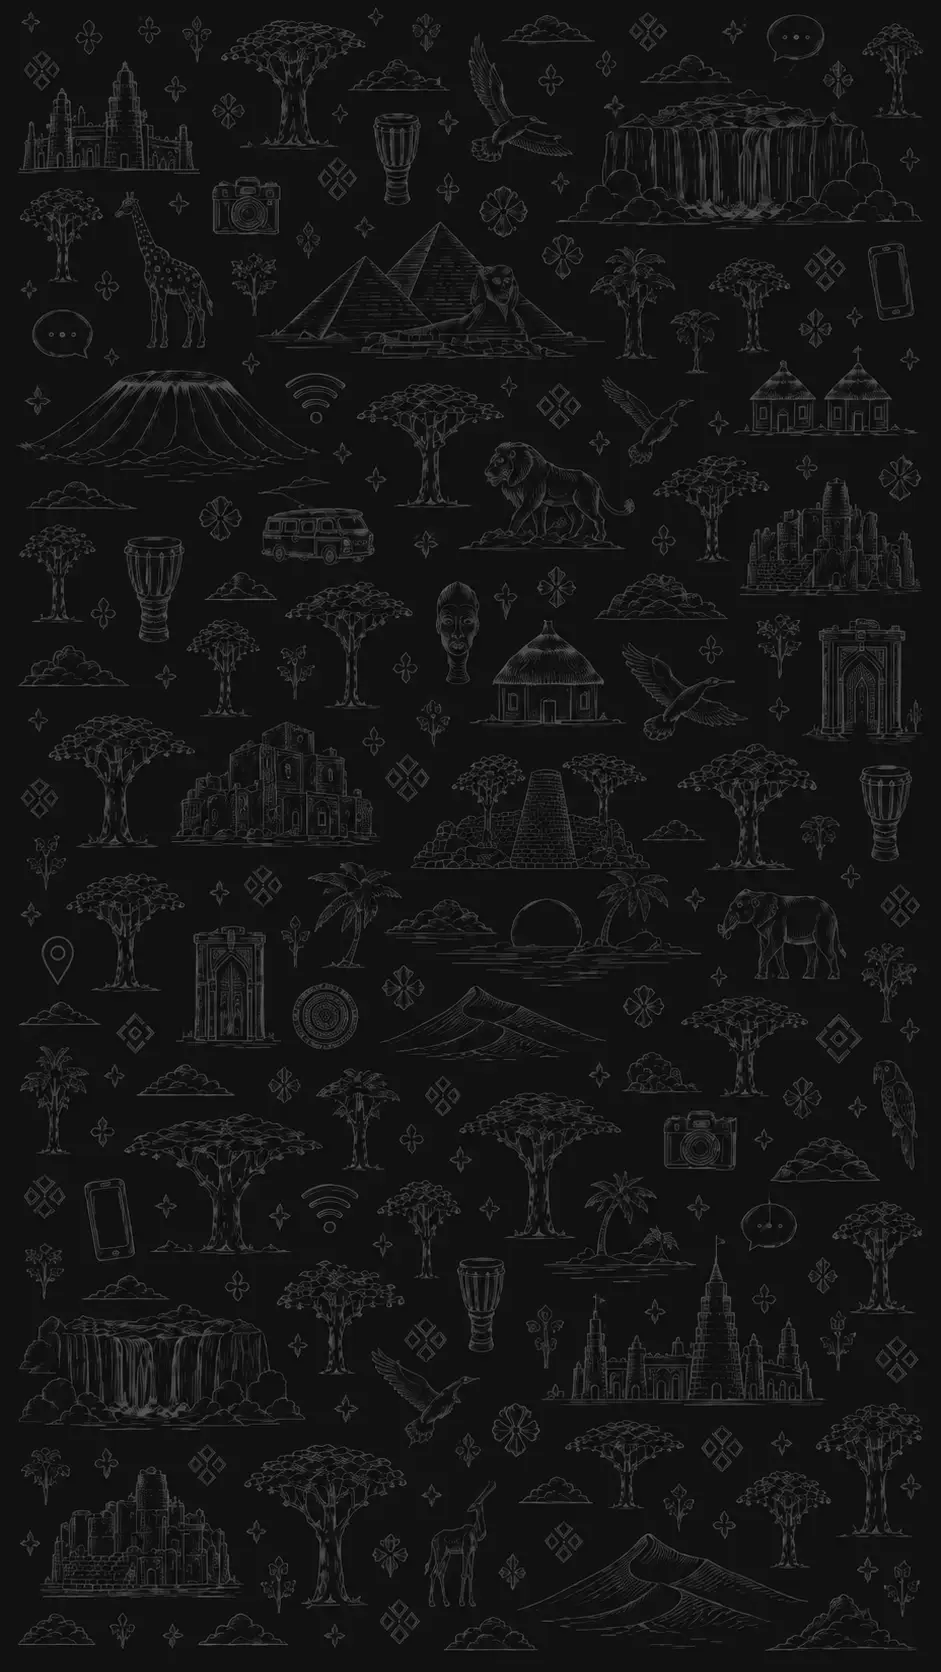
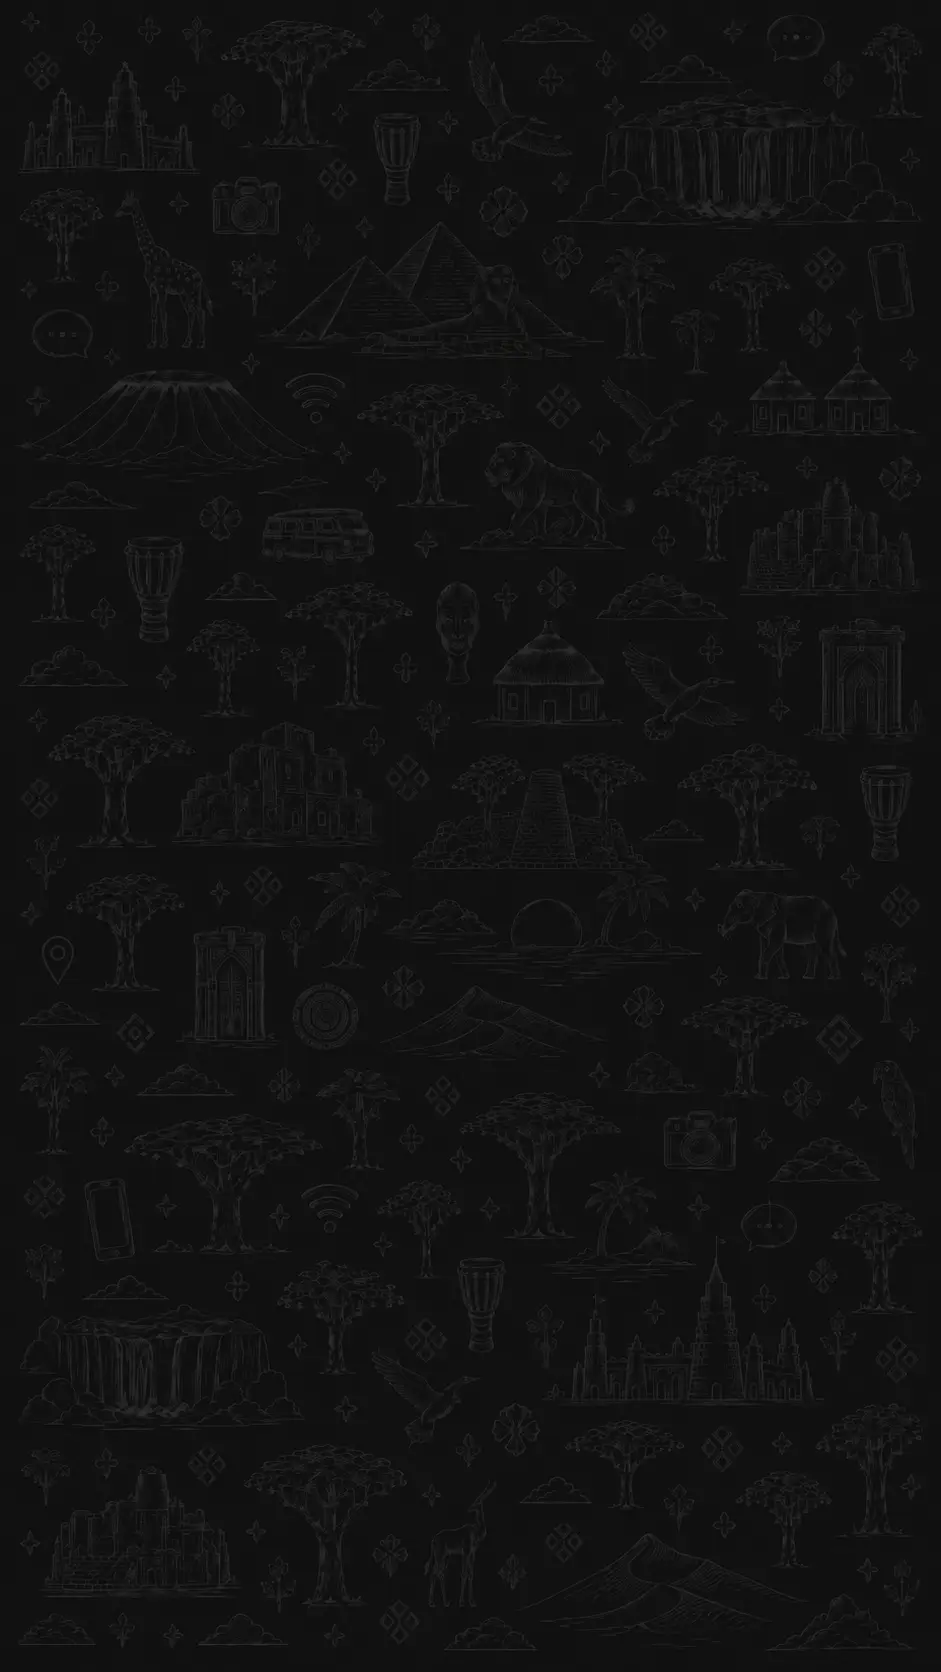
Update wallpapers and pin mobile chat search placeholder to #9aa1a6
New light/dark wallpaper art for both the portrait and web crops.

Also lands the pending placeholder guard: the mobile hierarchy block in
@media (max-width: 1023px) remaps the search label onto
--chat-text-secondary, and its :has() argument puts one more element in the
specificity chain than the #9aa1a6 guard, so phones rendered #b8b8b8 while
web rendered #9aa1a6. The extra element in the chain keeps the search
placeholder at #9aa1a6 across breakpoints in dark mode; light mode keeps its
deliberate #5F6861 cream-pill tone.

diff --git a/client/src/index.css b/client/src/index.css
@@ -3703,6 +3703,20 @@ body .savanna-app input[aria-label="Search conversations"]::placeholder,
   opacity: 1 !important;
 }
 
+/* The same control on phones. The mobile hierarchy block inside
+   `@media (max-width: 1023px)` remaps
+   `label:has(input[aria-label="Search chats or people"])` — which IS the mobile
+   search — onto `--chat-text-secondary`, and the `:has()` argument gives that
+   selector one more element than the guard above, so it wins on specificity
+   alone. Repeating `body` in the chain restores the margin and keeps the
+   placeholder at `#9aa1a6`, matching the `dark:placeholder:text-[#9AA1A6]`
+   class on the input itself. Light mode deliberately keeps its own `#5F6861`
+   cream-pill tone, so this guard is dark-only. */
+.dark body .savanna-app label:has(input[aria-label="Search chats or people"]) input::placeholder {
+  color: #9aa1a6 !important;
+  opacity: 1 !important;
+}
+
 .dark body .savanna-app .savanna-chat-search-with-gold-icon input {
   color: #F0F2F5 !important;
 }
